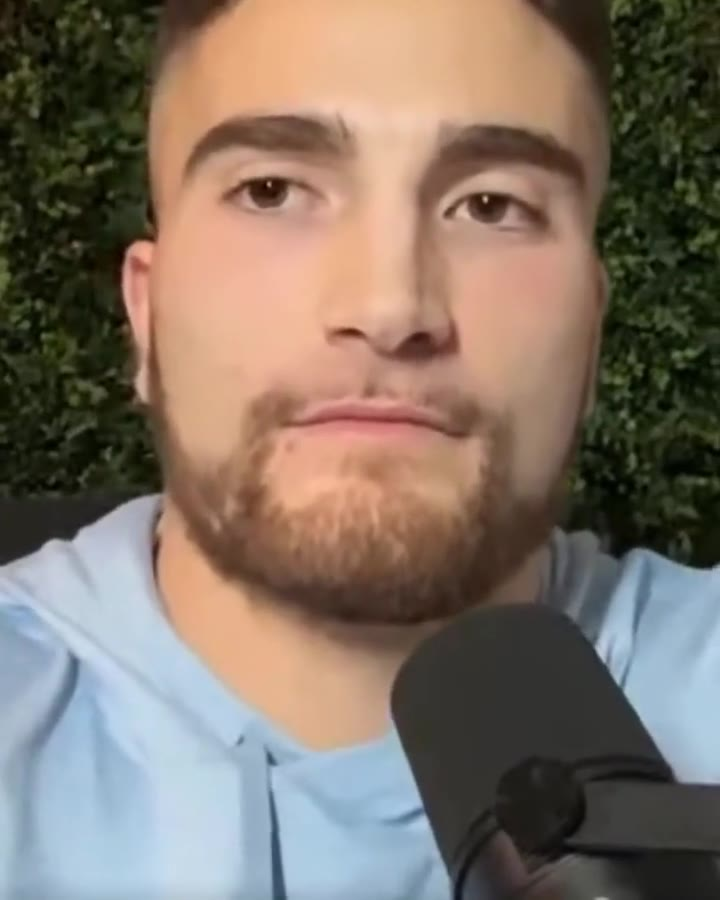
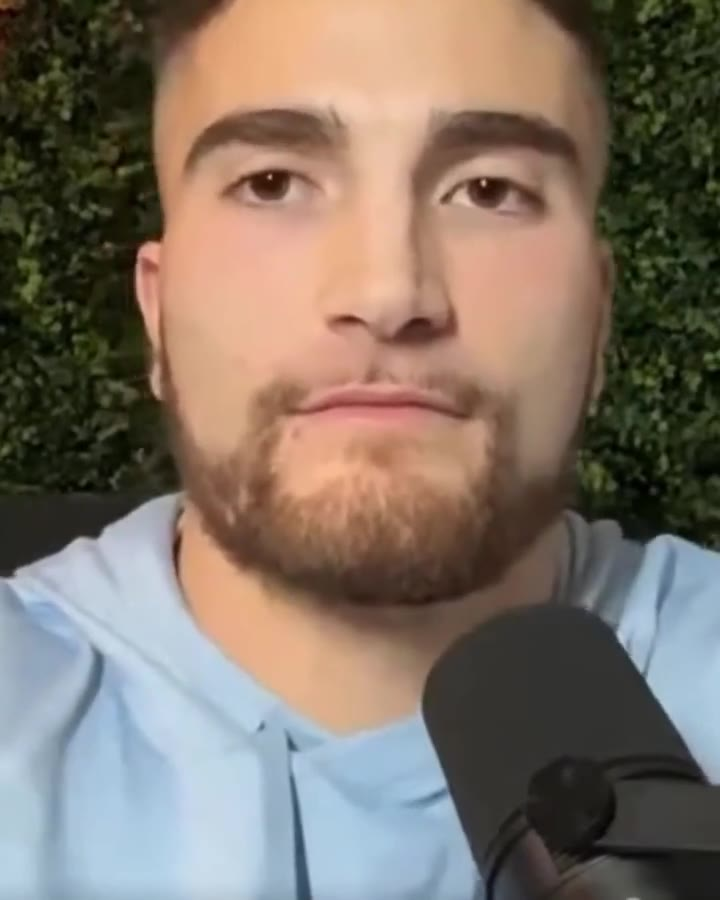
Use closest clean frame to speech-start for Bryan's poster
The exact first second (when he starts talking) has a promotional
caption box permanently baked into the source video through ~8s, so a
literal first-second frame would look inconsistent with every other
testimonial's clean-face poster. Used the closest frame after the
overlay clears (~9.3s) instead, per direction.

Claude-Session: https://claude.ai/code/session_01VyekCMGL3tLbJXvB5FKdR7

diff --git a/windows.rankflow/index.html b/windows.rankflow/index.html
@@ -58,7 +58,7 @@ src="https://www.facebook.com/tr?id=4390908821128639&ev=PageView&noscript=1"
   <footer>© Copyright WealthLink Media 2026 | All Rights Reserved</footer>
 </div>
 
-<script src="js/testimonials-data.js?v=6"></script>
+<script src="js/testimonials-data.js?v=7"></script>
 <script src="js/main.js?v=10"></script>
 <script>
   renderLogo(document.getElementById("logo"));

diff --git a/windows.rankflow/thank-you.html b/windows.rankflow/thank-you.html
@@ -50,7 +50,7 @@ src="https://www.facebook.com/tr?id=4390908821128639&ev=Schedule&noscript=1"
   <footer>© Copyright WealthLink Media 2026 | All Rights Reserved</footer>
 </div>
 
-<script src="js/testimonials-data.js?v=6"></script>
+<script src="js/testimonials-data.js?v=7"></script>
 <script src="js/main.js?v=10"></script>
 <script>
   renderLogo(document.getElementById("logo"));

diff --git a/windows.rankflow/js/testimonials-data.js b/windows.rankflow/js/testimonials-data.js
@@ -107,7 +107,7 @@ window.TESTIMONIALS = [
     name: "Bryan",
     company: "Golden State Tint",
     videoSrc: "assets/videos/bryan.mp4",
-    poster: "assets/videos/bryan.jpg",
+    poster: "assets/videos/bryan.jpg?v=2",
   },
 ];
 
